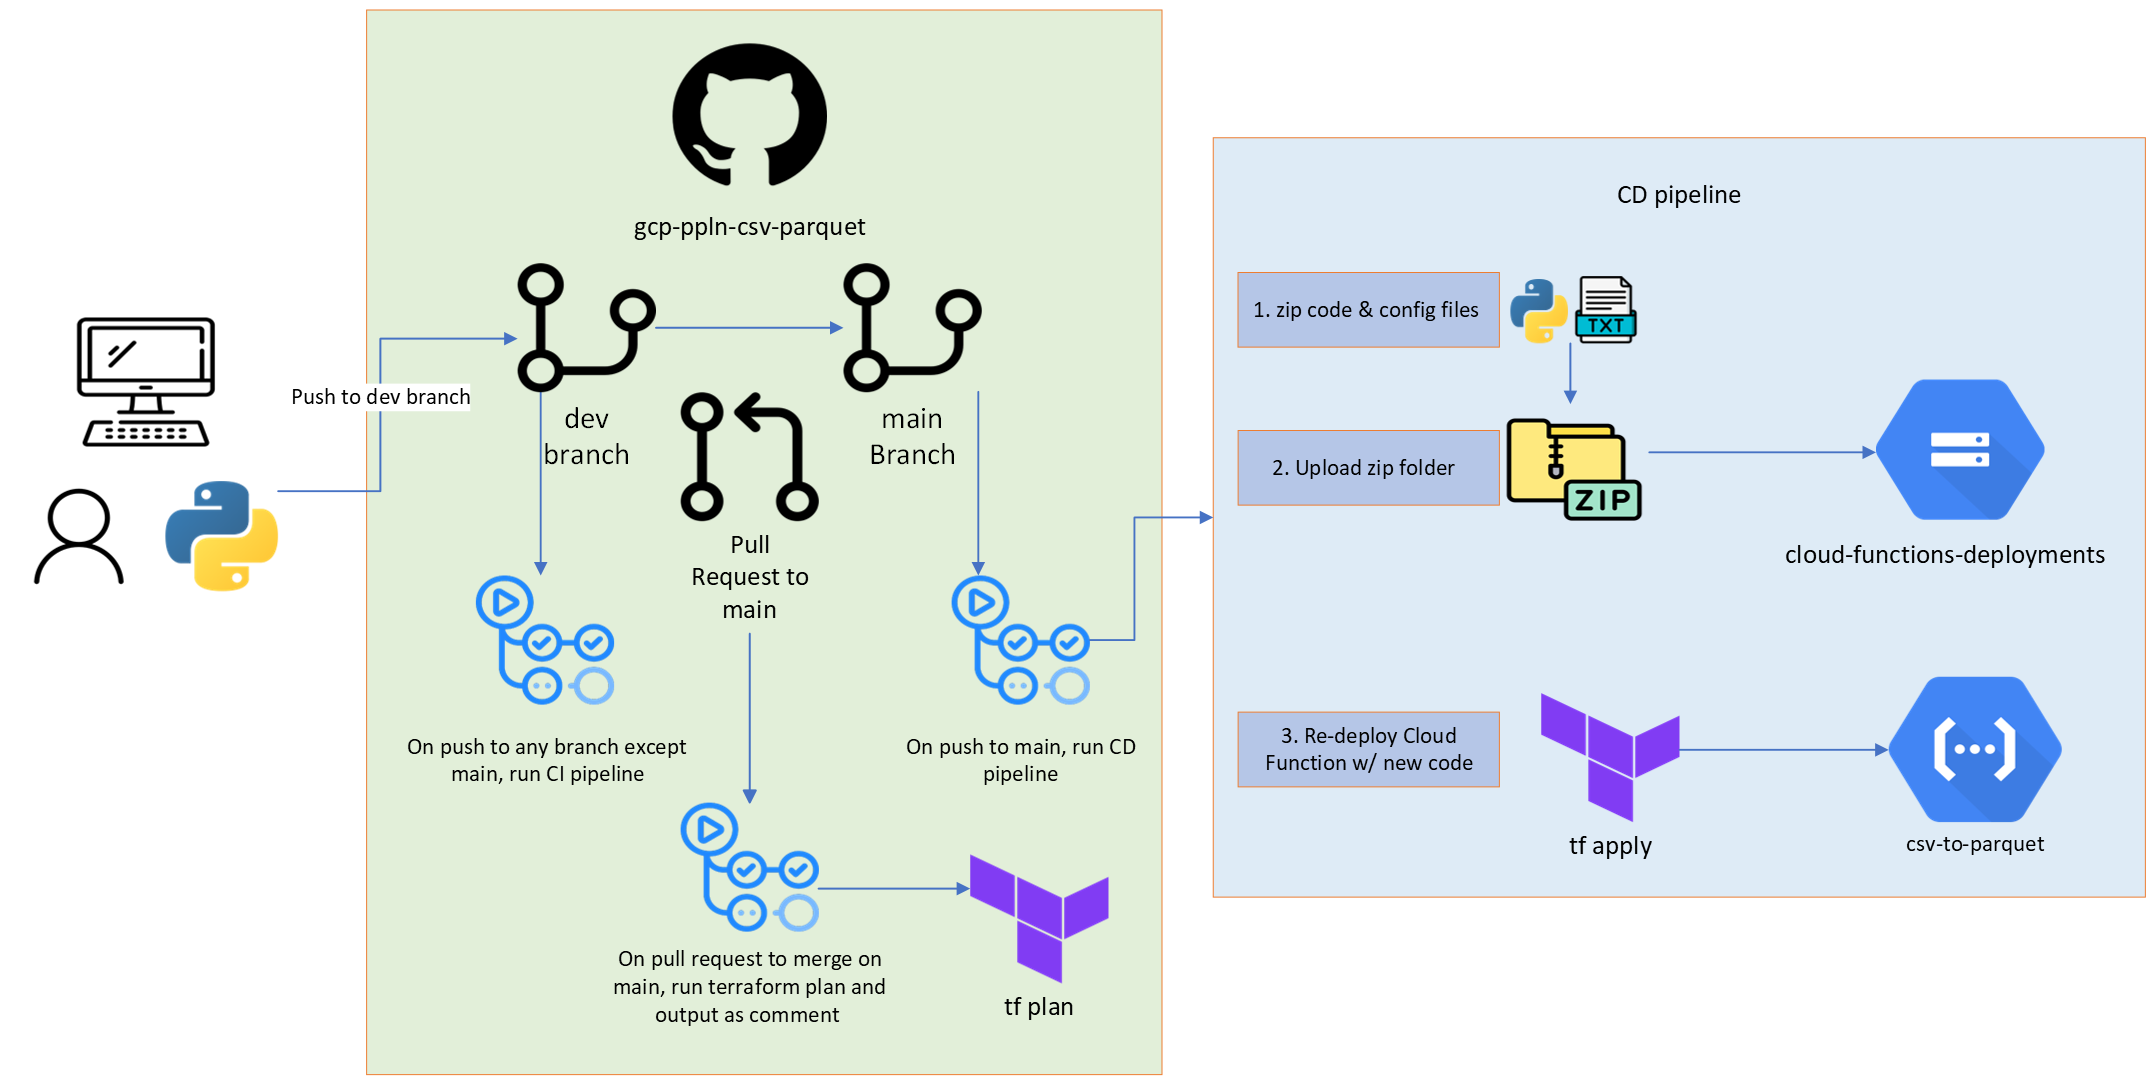
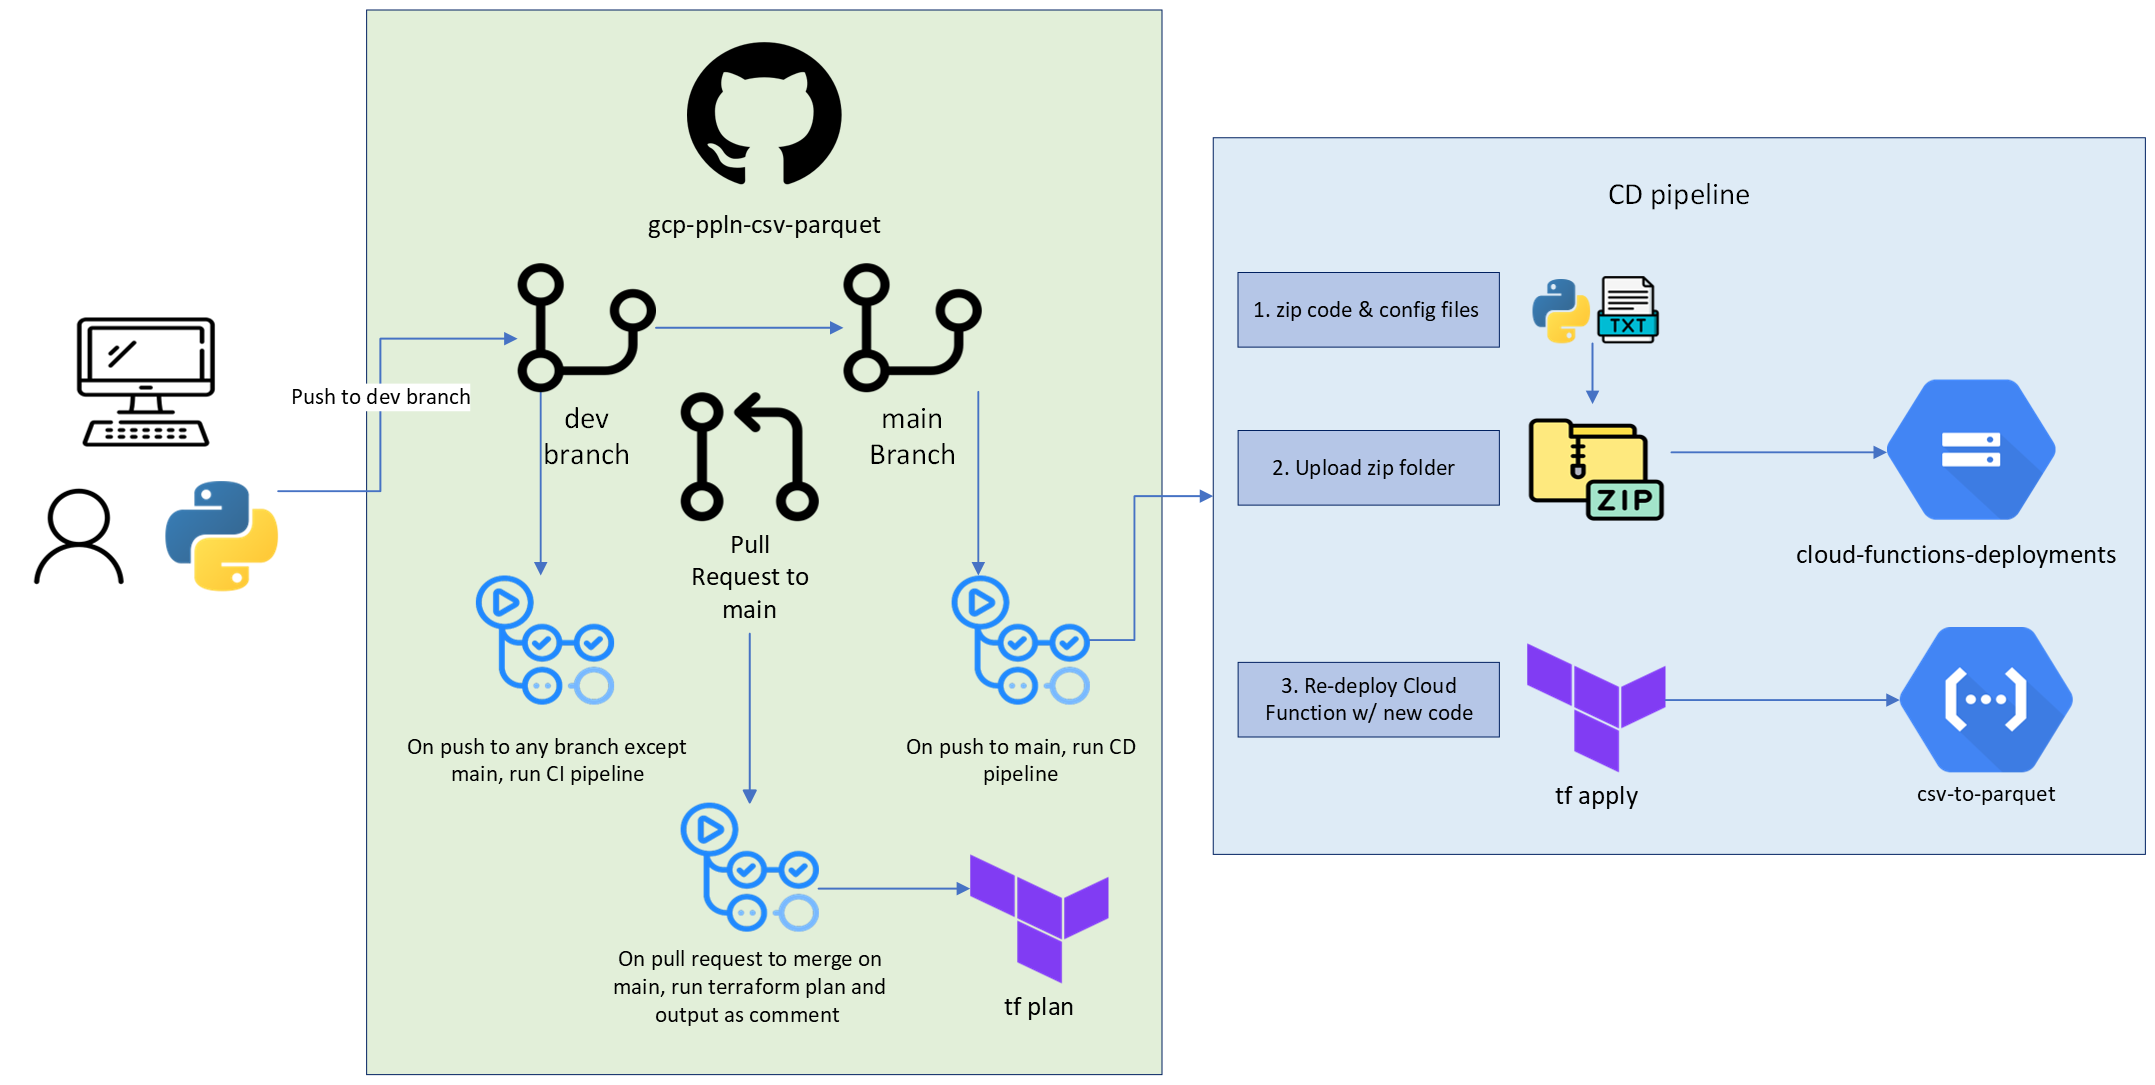
finished fun?

diff --git a/DocuMentor/gcp/Cloud-Function/csv-to-parquet.md b/DocuMentor/gcp/Cloud-Function/csv-to-parquet.md
@@ -11,7 +11,7 @@ This Cloud Function is event-driven; it is triggered & run whenever a new file i
 ## Diagram
 
 <figure align="center">
-    <img src="../../../imgs/csv-to-parquet-diag.png" width="700" height="340">
+    <img src="../../../imgs/csv-to-parquet-diag.png" width="95%">
   <figcaption>High-level diagram showing the how csv-to-parquet Cloud Function works.</figcaption>
 </figure>
 
@@ -28,9 +28,10 @@ Make sure you're added as a contributor to [the github repo](https://github.com/
 [Clone the repository](https://github.com/CarrierOps/1P-Wiki/blob/main/ByteSizedLearning/TinyTechTidbits/CodeMunchies/hello-github.md#cloning) somewhere that makes sense on your computer (for example, in a folder labeled 'data-infrastructure' inside a folder called 'Google Carrier' on your desktop).
 
 Then open the repository up with your favorite code editor
+
 > :bulb: **Quick-Tip**
 >
-> - After cloning the github repo, cd into it. From the command line, type 'cd csv-` then hit the <kbd>tab</kbd> to auto-complete then hit <kbd>enter</kbd>
+> - After cloning the github repo, cd into it. From the command line, type 'cd csv-` then hit <kbd>tab</kbd> to auto-complete then hit <kbd>enter</kbd>
 >
 > - Then enter the command 'code .'
 > - Happy coding!
@@ -39,11 +40,46 @@ To edit the code, open up `main.py` which is in the `src` directory.
 
 Do not edit any other file!
 
-> **Note**: You will not be able to run/test the code locally. There are ways to do it. Reach out to Thomas to see how.
+> **Note**:
+>
+> You will not be able to run/test the code locally. There are ways to do it. Reach out to Thomas to see how.
+
+When you're done making edits to the code, push it to GitHub on the dev branch.
 
 ### Deployment
 
+Deployment of the python code to Cloud Function on GCP is done automatically.
+
+The tl;dr is that the Cloud Function is deployed using Terraform via GitHub actions.
+
+#### Deployment Workflow
+
+The overall flow of how the code is deployed to GCP is shown in the diagram below
+
 <figure align="center">
-    <img src="../../../imgs/cs-parquet-devops.png" width="1000" height="350">
-  <figcaption>High-level diagram showing the how csv-to-parquet Cloud Function works.</figcaption>
+    <img src="../../../imgs/cs-parquet-devops.png" width="95%">
+  <figcaption>High-level diagram showing the how csv-to-parquet Cloud Function DevOps works.</figcaption>
 </figure>
+
+- Code is edited locally (on your computer), then pushed to GitHub on the dev branch
+- When pushes are made to the GitHub repo on any branch other than main, it kicks off a CI (continuous integration) pipeline.
+  - this CI pipeline is run via [GitHub actions](https://github.com/CarrierOps/1P-Wiki/blob/main/ByteSizedLearning/TinyTechTidbits/CodeMunchies/hello-github.md#github-actions)
+  - It runs things like formatters, security checks, unit tests, etc.
+  - It is a WIP in progress
+- When a Pull Request (PR) is made to main, another action is kicked off to get the terraform plan and write as a comment in the PR.
+- When the PR is accepted and merged into main, the CD (continuous deployment) pipeline is kicked off
+  - Also run via GitHub actions
+  1. Takes all relevant files to run the code (.py files, requirements.txt, any other config files)
+  2. creates a zip folder with these files
+  3. pushes the zip folder to a bucket in GCS
+  4. runs `terraform apply` to deploy re-deploy the cloud function with the latest code changes
+
+> :exclamation: **Important** :exclamation:
+>
+> It is vital for the code (.py files and all) to be added to the GCS bucket or else terraform won't redeploy the Cloud Function!
+>
+> Terraform only tracks state/changes in infrastructure, not code or files (that's what Git does). So in order to trigger a state change in the infrastructure, we created a special bucket in GCS to house the zip folders of the code files of all cloud functions. This bucket & all subfolder are managed/tracked by terraform.
+>
+> This means that while terraform can't track changes in the files of those sub-folders, it can track change that a new file was added.
+>
+> Through this mechanism, terraform is able to recognize a state change and then re-deploy the cloud function with the latest code changes.

diff --git a/ByteSizedLearning/TinyTechTidbits/CodeMunchies/hello-github.md b/ByteSizedLearning/TinyTechTidbits/CodeMunchies/hello-github.md
@@ -240,3 +240,5 @@ dfgfsdg
 fgsgsdfgsdfgs
 ggesrgg
 ## Cloning
+
+## Github Actions
